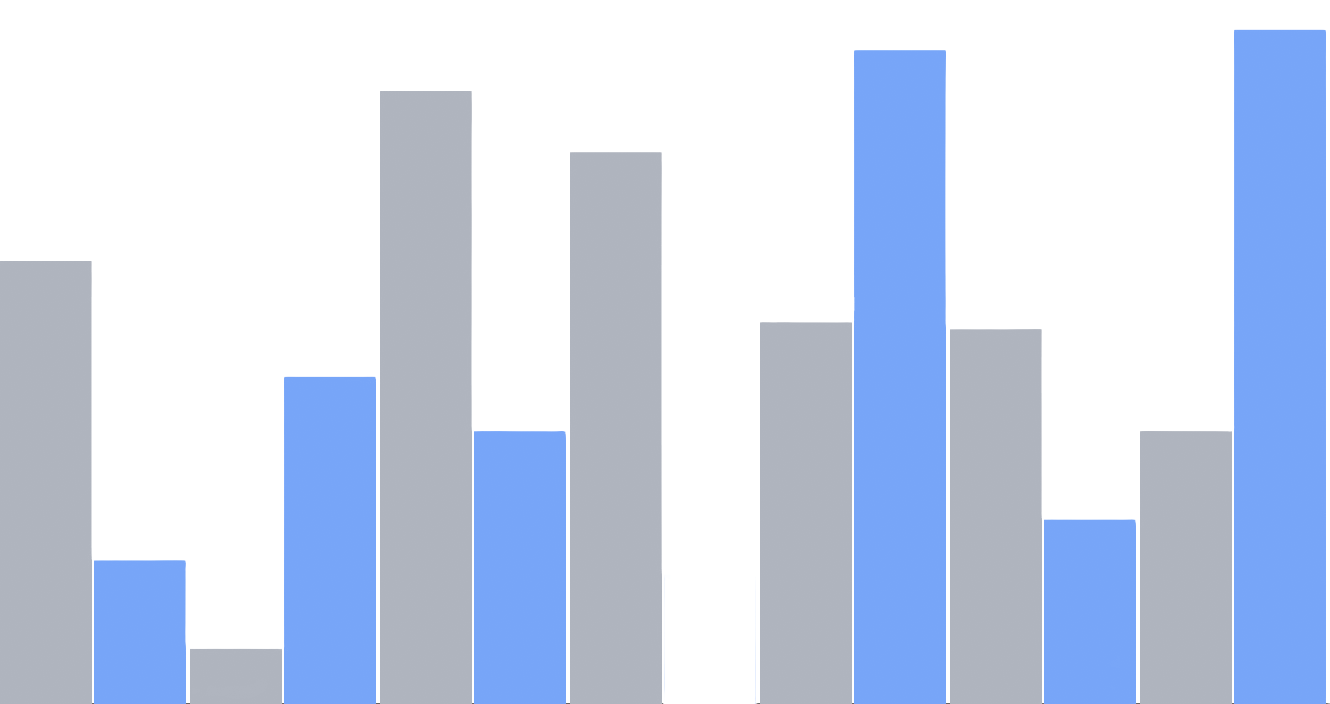
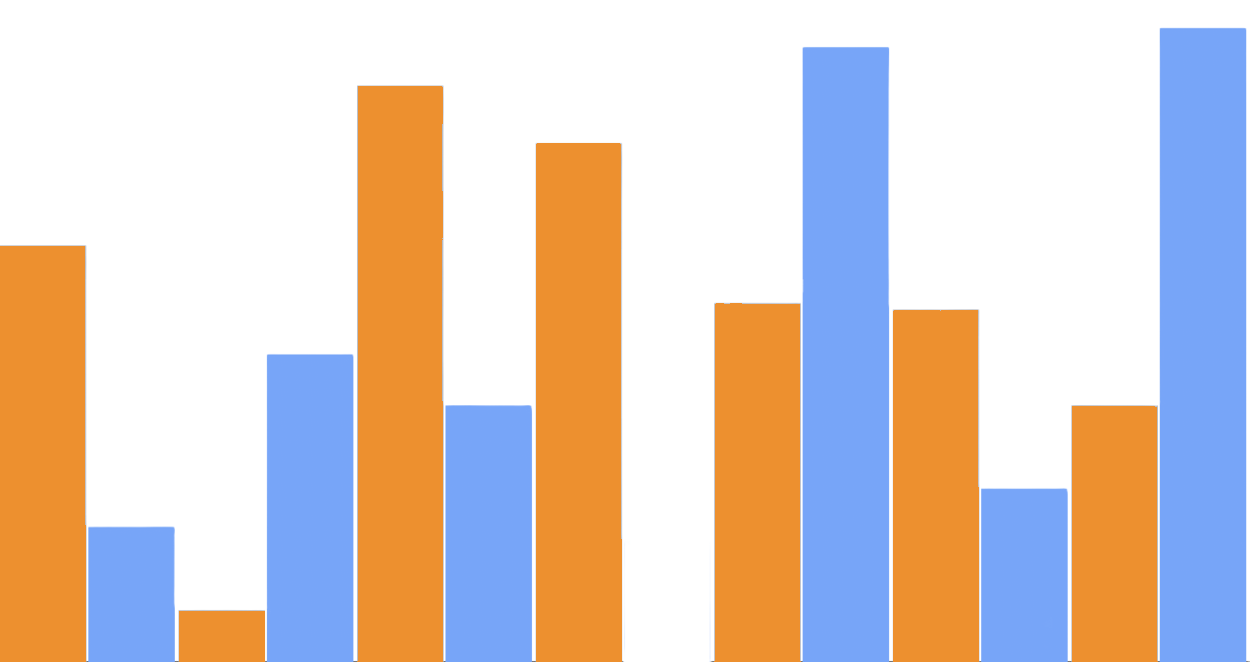
fix: AgeHistogram working again, with colors matching other similar graphs

diff --git a/components/d3/AgeHistogram.vue b/components/d3/AgeHistogram.vue
@@ -1,8 +1,17 @@
 <template>
     <div class="flex flex-col gap-4 h-full">
         <div class="flex flex-wrap justify-left items-center gap-2">
-            <span class="text-sm text-gray-600 dark:text-gray-400">Compare with</span>
-            <USelectMenu v-model="selectedItem" :avatar="selectedItem?.avatar" :items="items" class="w-64" ></USelectMenu>
+            <span class="text-sm text-gray-600 dark:text-gray-400">Compare</span>
+            <div
+                class="min-w-[12rem] max-w-[16rem] w-fit relative inline-flex items-center px-3 py-1 bg-white dark:bg-zinc-900 border border-gray-300 dark:border-zinc-700 rounded-lg">
+                <div class="flex items-center gap-2 flex-1">
+                    <img :src="currentSportIcon" :alt="currentSportName"
+                        class="w-6 h-6 rounded-full object-cover dark:invert dark:brightness-100" />
+                    <span class="text-sm text-gray-900 dark:text-white truncate">{{ currentSportName }}</span>
+                </div>
+            </div>
+            <span class="text-sm text-gray-600 dark:text-gray-400">with</span>
+            <USelectMenu v-model="selectedItem" :avatar="selectedItem?.avatar" :items="items" class="w-64" />
         </div>
         <div ref="chartContainer" class="flex-1 w-full min-h-[40vh]"></div>
         <div class="flex flex-wrap items-center justify-center text-sm mt-2 gap-4">
@@ -11,7 +20,7 @@
                 <span class="text-xs sm:text-sm">{{ currentSportName }}</span>
             </div>
             <div class="flex items-center">
-                <div class="w-3 h-3 bg-gray-400 opacity-80 mr-1 rounded"></div>
+                <div class="w-3 h-3 bg-[#f97316] opacity-80 mr-1 rounded"></div>
                 <span class="text-xs sm:text-sm">{{ compareSportName }}</span>
             </div>
         </div>
@@ -54,18 +63,23 @@ const itemsWithIcons = ref([
     }))
 ]);
 
-const items = ref([
-    { label: 'Average (All Sports)', value: 'average', avatar: { src: '/img/olympics.svg', alt: 'olympics' }},
-    ...itemsWithIcons.value.map(({ label, value, icon }) => ({
-        label,
-        value,
-        avatar: {
-            src: icon,
-            alt: label,
-            class: 'dark:invert dark:brightness-100 bg-transparent'
-        }
-    }))
-]);
+const items = computed(() => {
+    const baseItems = [
+        { label: 'Average (All Sports)', value: 'average', avatar: { src: '/img/olympics.svg', alt: 'olympics' } },
+        ...itemsWithIcons.value
+            .filter(item => item.value !== props.sportSlug) // Filter out current sport
+            .map(({ label, value, icon }) => ({
+                label,
+                value,
+                avatar: {
+                    src: icon,
+                    alt: label,
+                    class: 'dark:invert dark:brightness-100 bg-transparent'
+                }
+            }))
+    ];
+    return baseItems;
+});
 
 
 const selectedItem = ref(items.value[0]);
@@ -82,8 +96,24 @@ const currentSportName = computed(() => {
     return sport ? sport.name : 'Selected Sport';
 });
 
+// Add new computed property for current sport icon
+const currentSportIcon = computed(() => {
+    const sport = allSports.find(s => s.slug === props.sportSlug);
+    return sport ? sport.icon : '/img/olympics.svg';
+});
+
+const getAges = (slug: string) => {
+    const filteredAthletes = Object.values(athletes)
+        .filter((a: any) => a.age && (slug === 'average' || a.sports?.includes(slug)));
+    const ages = filteredAthletes.map((a: any) => a.age);
+    return ages;
+};
+
+
 const createHistogram = () => {
-    if (!chartContainer.value) return;
+    if (!chartContainer.value) {
+        return;
+    }
 
     d3.select(chartContainer.value).selectAll('*').remove();
 
@@ -94,12 +124,6 @@ const createHistogram = () => {
     const margin = { top: 20, right: 20, bottom: 30, left: 40 };
     const width = containerWidth * 0.9;
     const height = containerHeight;
-
-    const getAges = (slug: string) => {
-        return Object.values(athletes)
-            .filter((a: any) => a.age && (slug === 'average' || a.sports?.some((s: any) => s.slug === slug)))
-            .map((a: any) => a.age);
-    };
 
     const primaryAges = getAges(props.sportSlug);
     const compareAges = getAges(compareSlug.value);
@@ -171,7 +195,7 @@ const createHistogram = () => {
 
     const calculateBarWidth = (d: any) => {
         const binWidth = x(d.x1!) - x(d.x0!);
-        return binWidth * 0.495;
+        return binWidth * 0.5;
     };
 
     // Create pairs of bars
@@ -191,32 +215,37 @@ const createHistogram = () => {
         .attr('height', d => Math.max(0, y(0) - y((d.primary.length / primaryTotal) * 100)))
         .attr('width', d => calculateBarWidth(d))
         .attr('fill', '#3b82f6')
-        .attr('opacity', 0.7)
+        .attr('opacity', 0.9)  // slightly increase default opacity
         .attr('rx', 1)
         .attr('cursor', 'pointer');
 
     // Compare bars (right side of each bin)
     const compareBars = pairs.append('rect')
         .attr('class', 'compare-bar')
-        .attr('x', d => x(d.x0!) + calculateBarWidth(d) + 1) // Add 1px gap for visual separation
+        .attr('x', d => x(d.x0!) + calculateBarWidth(d))
         .attr('y', d => y((d.compare.length / compareTotal) * 100))
         .attr('height', d => Math.max(0, y(0) - y((d.compare.length / compareTotal) * 100)))
         .attr('width', d => calculateBarWidth(d))
-        .attr('fill', '#9ca3af')
-        .attr('opacity', 0.7)
+        .attr('fill', '#f97316')  // Brighter orange
+        .attr('opacity', 0.9)
         .attr('rx', 1)
         .attr('cursor', 'pointer');
 
     // Add event handlers to primary bars
     primaryBars
         .on('mouseover', function (event, d) {
+            // Highlight this specific bar
             d3.select(this)
                 .attr('opacity', 1)
-                .attr('fill', '#1a68c7');
+                .attr('fill', '#1a68c7');  // darker blue for primary hover
 
-            // Dim all compare bars
+            // Dim all other bars significantly
+            primaryBars
+                .filter(pd => pd !== d)
+                .attr('opacity', 0.2);
+
             compareBars
-                .attr('opacity', 0.4);
+                .attr('opacity', 0.2);
 
             if (!tooltip.value) return;
 
@@ -232,11 +261,10 @@ const createHistogram = () => {
             tooltip.value.style.top = `${event.offsetY - 30}px`;
         })
         .on('mouseout', function () {
-            // Reset all bars
-            d3.select(this)
+            // Reset all bars to original opacity
+            primaryBars
                 .attr('opacity', 0.8)
                 .attr('fill', '#3b82f6');
-
 
             compareBars
                 .attr('opacity', 0.8);
@@ -252,14 +280,18 @@ const createHistogram = () => {
     // Add event handlers to compare bars
     compareBars
         .on('mouseover', function (event, d) {
-            // Highlight all compare bars
+            // Highlight this specific bar
             d3.select(this)
                 .attr('opacity', 1)
-                .attr('fill', '#6b7280');
+                .attr('fill', '#ea580c');  // Darker version of the bright orange for hover
 
-            // Dim all primary bars
+            // Dim all other bars significantly
+            compareBars
+                .filter(cd => cd !== d)
+                .attr('opacity', 0.2);
+
             primaryBars
-                .attr('opacity', 0.4);
+                .attr('opacity', 0.2);
 
             if (!tooltip.value) return;
 
@@ -275,14 +307,13 @@ const createHistogram = () => {
             tooltip.value.style.top = `${event.offsetY - 30}px`;
         })
         .on('mouseout', function () {
-            // Reset all bars
-            d3.select(this)
-                .attr('opacity', 0.8)
-                .attr('fill', '#9ca3af');
-
-
+            // Reset all bars to original opacity
             primaryBars
                 .attr('opacity', 0.8);
+
+            compareBars
+                .attr('opacity', 0.8)
+                .attr('fill', '#f97316');
 
             if (tooltip.value) tooltip.value.style.display = 'none';
         })
@@ -352,5 +383,10 @@ watch(() => [props.sportSlug, compareSlug.value], createHistogram);
 watch(selectedItem, (newVal) => {
     compareSlug.value = newVal.value;
 });
+
+// Update selectedItem to use the first item when sport changes
+watch(() => props.sportSlug, () => {
+    selectedItem.value = items.value[0];
+}, { immediate: true });
 
 </script>

diff --git a/components/d3/MedalsComparisonHistogram.vue b/components/d3/MedalsComparisonHistogram.vue
@@ -3,7 +3,7 @@
         <div class="flex flex-wrap justify-left items-center gap-2">
             <span class="text-sm text-gray-600 dark:text-gray-400">Compare</span>
             <div
-                class="w-48 relative inline-flex items-center px-1 py-1 bg-white dark:bg-gray-800 border border-gray-300 dark:border-gray-700 rounded-lg">
+                class="min-w-[12rem] max-w-[16rem] w-fit relative inline-flex items-center px-3 py-1 bg-white dark:bg-zinc-900 border border-gray-300 dark:border-zinc-700 rounded-lg">
                 <div class="flex items-center gap-2 flex-1">
                     <img :src="currentCountry?.img" :alt="currentCountry?.name"
                         class="w-6 h-6 rounded-full object-cover" />
@@ -14,7 +14,8 @@
             <USelectMenu v-model="selectedCountry" :avatar="selectedCountry?.avatar" :items="availableCountries"
                 class="w-64" />
             <span class="text-sm text-gray-600 dark:text-gray-400">on</span>
-            <USelectMenu v-model="selectedSport" :avatar="selectedSport?.avatar" :items="availableSports" class="w-64" />
+            <USelectMenu v-model="selectedSport" :avatar="selectedSport?.avatar" :items="availableSports"
+                class="w-64" />
         </div>
         <div ref="chartContainer" class="flex-1 w-full min-h-[40vh]"></div>
         <div class="flex flex-wrap items-center justify-center text-sm mt-2 gap-4">
@@ -111,7 +112,7 @@ const availableSports = computed(() => {
         avatar: {
             src: sport.icon,
             alt: sport.name,
-            class: ''
+            class: 'dark:invert dark:brightness-100 bg-transparent'
         }
     }))
 
